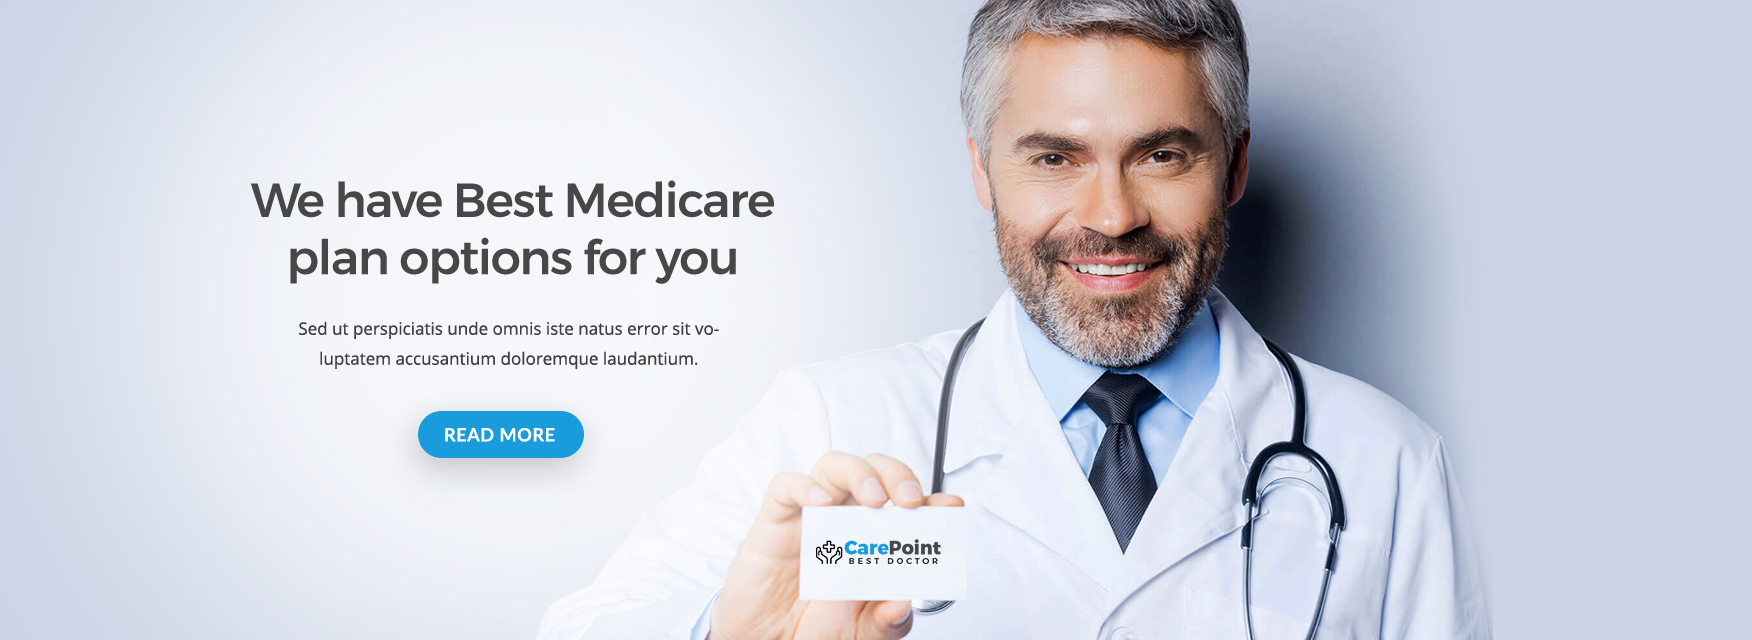
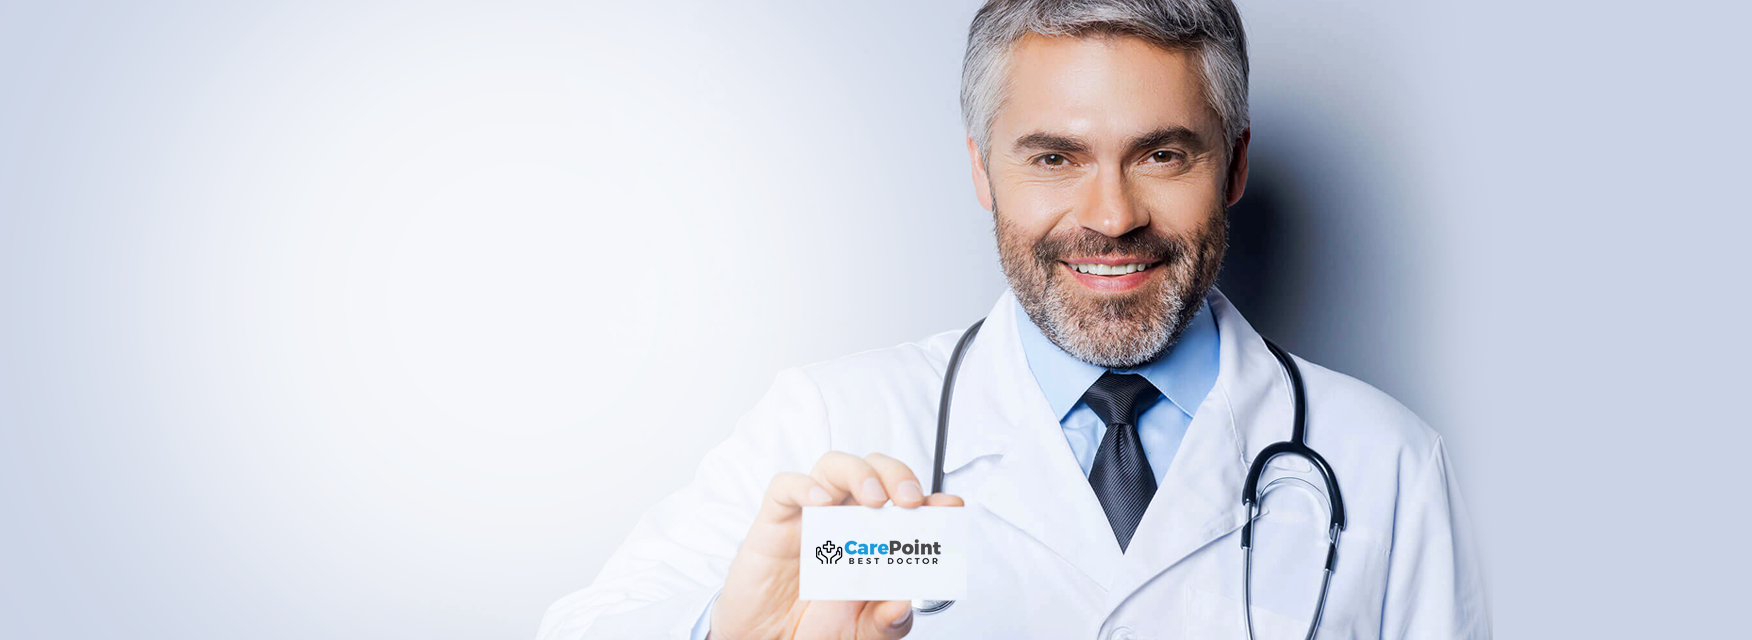
Добавил еще несколько блоков, не могу понять почему не центрируются при уменьшении размера экрана.

diff --git a/css/style.css b/css/style.css
@@ -116,15 +116,15 @@ body header .headerInside .navAndSocials .socials a:last-child {
 }
 
 body .medicalCarePlan {
-    height: 240px;
-    margin: 0 auto;
+    width: 1600px;
+    height: 640px;
     float: left;
-    outline: 1px solid #6c6c6c;
+    background-image: url(../img/medicarePlan.jpg);
 }
 
 body .benefits {
-    height: 240px;
-    margin: 0 auto;
+    width: 1600px;
+    height: 360px;
     float: left;
     /* Permalink - use to edit and share this gradient: http://colorzilla.com/gradient-editor/#43b1d2+0,37c3a8+100 */
     background: #43b1d2;
@@ -137,4 +137,42 @@ body .benefits {
     /* W3C, IE10+, FF16+, Chrome26+, Opera12+, Safari7+ */
     filter: progid:DXImageTransform.Microsoft.gradient(startColorstr='#43b1d2', endColorstr='#37c3a8', GradientType=1);
     /* IE6-9 */
+}
+body .whyChooseUs {
+    width: 1200px;
+    height: 745px;
+    float: left;
+    margin-top: 100px;
+    background-color: rgb(139, 126, 126);
+}
+body .achievements {
+    width: 1600px;
+    height: 590px;
+    float: left;
+    background-image: url(../img/achievements.jpg);
+}
+body .worksAndCreative {
+    width: 1200px;
+    height: 700px;
+    float: left;
+    margin-top: 100px;
+    margin-bottom: 100px;
+    background-color: rgb(139, 126, 126);
+}
+body .gallery {
+    width: 1600px;
+    height: 840px;
+    float: left;
+    box-sizing: border-box;
+    background-image: url(../img/galleryBack.jpg);
+    padding-top: 100px;
+    padding-bottom: 100px;
+    padding-left: 200px;
+    padding-right: 200px;
+}
+
+body .gallerybox {
+    width: 1200px;
+    height: 640px;
+    outline: 1px solid red;
 }

diff --git a/index.html b/index.html
@@ -59,11 +59,25 @@
                 </div>
             </div>
         </header>
-        
-        <div class="medicalCarePlan container16"></div>
-
-        <div class="benefits container16"></div>
-
+        <div class="container16">
+            <div class="medicalCarePlan"></div>
+            
+            <div class="benefits"></div>
+        </div>
+        <div class="container12">
+            <div class="whyChooseUs"></div>
+        </div>
+        <div class="container16">
+                <div class="achievements"></div>
+        </div>
+        <div class="container12">
+                <div class="worksAndCreative"></div>
+        </div>
+        <div class="container16">
+            <div class="gallery">
+                <div class="gallerybox"></div>
+            </div>
+        </div>
         <footer></footer>
 
         <div class="copyrights"></div>

diff --git a/css/st.css b/css/st.css
@@ -1,0 +1,38 @@
+* {
+    padding: 0;
+    margin: 0;
+}
+.container {
+    width: 1600px;
+    margin: 0 auto;
+}
+.container2 {
+    width: 1200px;
+    margin: 0 auto;
+}
+.block1 {
+    width: 1600px;
+    height: 200px;
+    outline: 1px solid #6c6c6c;
+    float: left;
+}
+.block2 {
+    width: 1200px;
+    height: 200px;
+    margin-left: 200px;
+    outline: 1px solid #6c6c6c;
+    float: left;
+}
+.block3 {
+    width: 900px;
+    height: 200px;
+    margin-left: 150px;
+    outline: 1px solid #6c6c6c;
+    float: left;
+}
+.block4 {
+    width: 1200px;
+    height: 200px;
+    outline: 1px solid #6c6c6c;
+    float: left;
+}

diff --git a/st.html b/st.html
@@ -1,0 +1,22 @@
+<!DOCTYPE html>
+<html lang="en">
+<head>
+    <meta charset="UTF-8">
+    <meta name="viewport" content="width=device-width, initial-scale=1.0">
+    <meta http-equiv="X-UA-Compatible" content="ie=edge">
+    <link rel="stylesheet" href="css/st.css">
+    <title>Document</title>
+</head>
+<body>
+    <div class="container">
+            <div class="block1"></div>
+            <div class="block2"></div>
+
+    </div>
+
+    <div class="container2">
+            <div class="block3"></div>
+            <div class="block4"></div>
+    </div>
+</body>
+</html>
